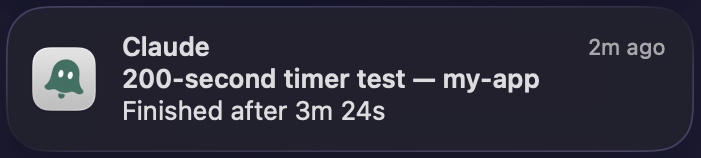
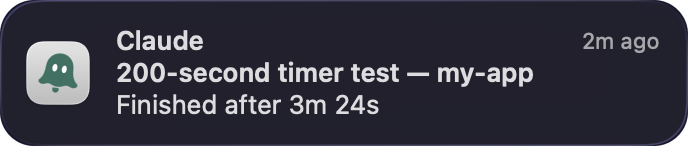
docs: the notification screenshot keeps only the card, with transparent corners

Changed region(s): [[0.0, 0.0, 1.0, 0.7945], [0.0, 0.3288, 1.0, 1.0], [0.8241, 0.2192, 0.9767, 0.3836]]

diff --git a/README.zh-CN.md b/README.zh-CN.md
@@ -15,7 +15,7 @@
 <p align="center"><a href="README.md">English</a> · <a href="README.zh-CN.md">中文</a></p>
 
 <p align="center">
-  <img src="docs/assets/notification.png" alt="一条真实通知：Claude，200-second timer test — my-app，Finished after 3m 24s" width="350">
+  <img src="docs/assets/notification.png" alt="一条真实通知：Claude，200-second timer test — my-app，Finished after 3m 24s" width="344">
 </p>
 
 丢一个长任务给它跑，切去浏览器，然后就忘了。任务结束时弹一条通知，告诉你是哪个

diff --git a/README.md b/README.md
@@ -15,7 +15,7 @@
 <p align="center"><a href="README.md">English</a> · <a href="README.zh-CN.md">中文</a></p>
 
 <p align="center">
-  <img src="docs/assets/notification.png" alt="A real notification from this tool: Claude, 200-second timer test — my-app, Finished after 3m 24s" width="350">
+  <img src="docs/assets/notification.png" alt="A real notification from this tool: Claude, 200-second timer test — my-app, Finished after 3m 24s" width="344">
 </p>
 
 You start a long task, switch to the browser, and forget about it. When it
